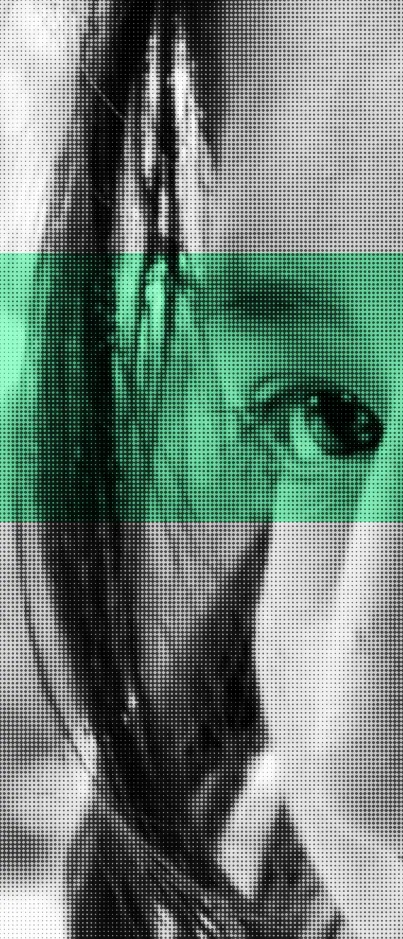
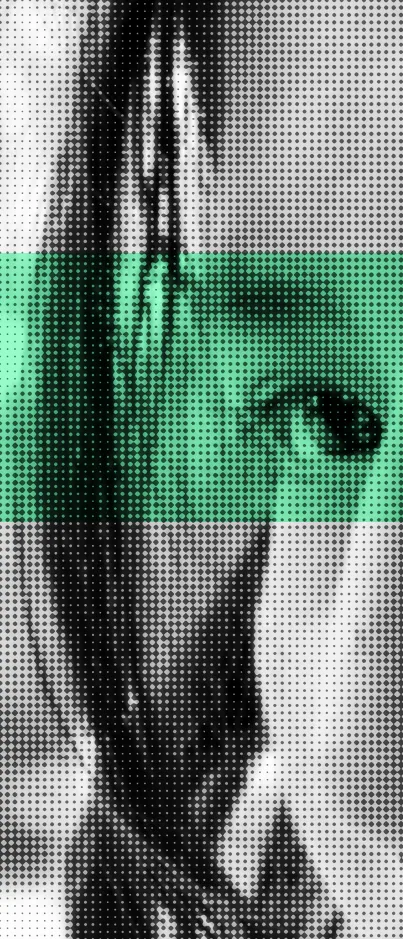
Drop the nets, lift the strip off the title, and coarsen the portrait
Three things.

The nets piece is out — the one photograph with neither a landscape nor a face
in it. The left column is now the forest and the globe and nothing else. Four
photographs, 577 KB.

The narrow-screen strip goes from 24vh to 17vh, and its clearance from 1rem to
2.75rem. The display face is large on a narrow screen and its first line was
arriving almost against the images above it.

And the portrait gets a coarser dot screen than the rest, 10.5 px against 6.
Its source is the smallest of the set and the crop holds only about 210 real
pixels across; it cannot be widened, because the left half of that photograph
is out-of-focus background. At 6 px the screen was finer than the detail
underneath it, so it stopped being a texture and became noise over mush — and
in the strip, where the piece is drawn about 84 px wide, the browser then threw
five of every six dots away and left a smear. Fewer, larger dots each carry
more tone and survive the reduction. The piece this one replaces was doing the
same: closeupface had the coarsest screen in the old set, 13.4 px against
house's 3.5.

diff --git a/src/components/intro/intro.scss b/src/components/intro/intro.scss
@@ -5,7 +5,7 @@
   // the piece and lets the elements animate independently.
   // Depth of the collage strip on narrow screens. Shared with intro-art so the
   // copy below can be kept clear of it — the two must not drift apart.
-  --intro-strip-h: 24vh;                  // adjust mobile strip depth
+  --intro-strip-h: 17vh;                  // adjust mobile strip depth
 
   background-color: #f7f4ee;              // adjust intro ground
   background-image: url('../../assets/paper-grain.jpg');
@@ -67,7 +67,10 @@
 // Padding the content box down by the strip's own depth keeps them apart.
 @media (max-width: 820px) {
   .intro__content {
-    padding-top: calc(var(--intro-strip-h, 24vh) + 1rem);   // adjust clearance
+    // The strip's own depth plus a clear gap. One rem was not enough: the
+    // display face is large on a narrow screen, so its first line arrived
+    // almost against the images above it.
+    padding-top: calc(var(--intro-strip-h, 17vh) + 2.75rem);  // adjust clearance
     box-sizing: border-box;
   }
 }

diff --git a/src/config.js b/src/config.js
@@ -27,11 +27,9 @@ export default {
     //   onMobile  include in the top strip on narrow screens
     art: [
       { src: '/intro-art/yasuni-canopy.webp', left: '0%', top: '10%', width: '24.3%', onMobile: true },
-      // The globe sits under the forest piece's bottom edge and over the nets
-      // below it, which is what ties the three into one column rather than
-      // three things stacked at the same margin.
+      // Tucked under the forest piece's bottom edge, so the two read as one
+      // column rather than as two things sharing a margin.
       { src: '/intro-art/earth-left.webp', left: '0%', top: '38%', height: '28.2%' },
-      { src: '/intro-art/massaco-nets.webp', left: '0%', top: '64%', width: '12%' },
       // Flush to the right edge, and the tallest thing on that side. Listed
       // before the globe so the globe cannot be covered by it; they do not
       // overlap, but the order is what guarantees that.
